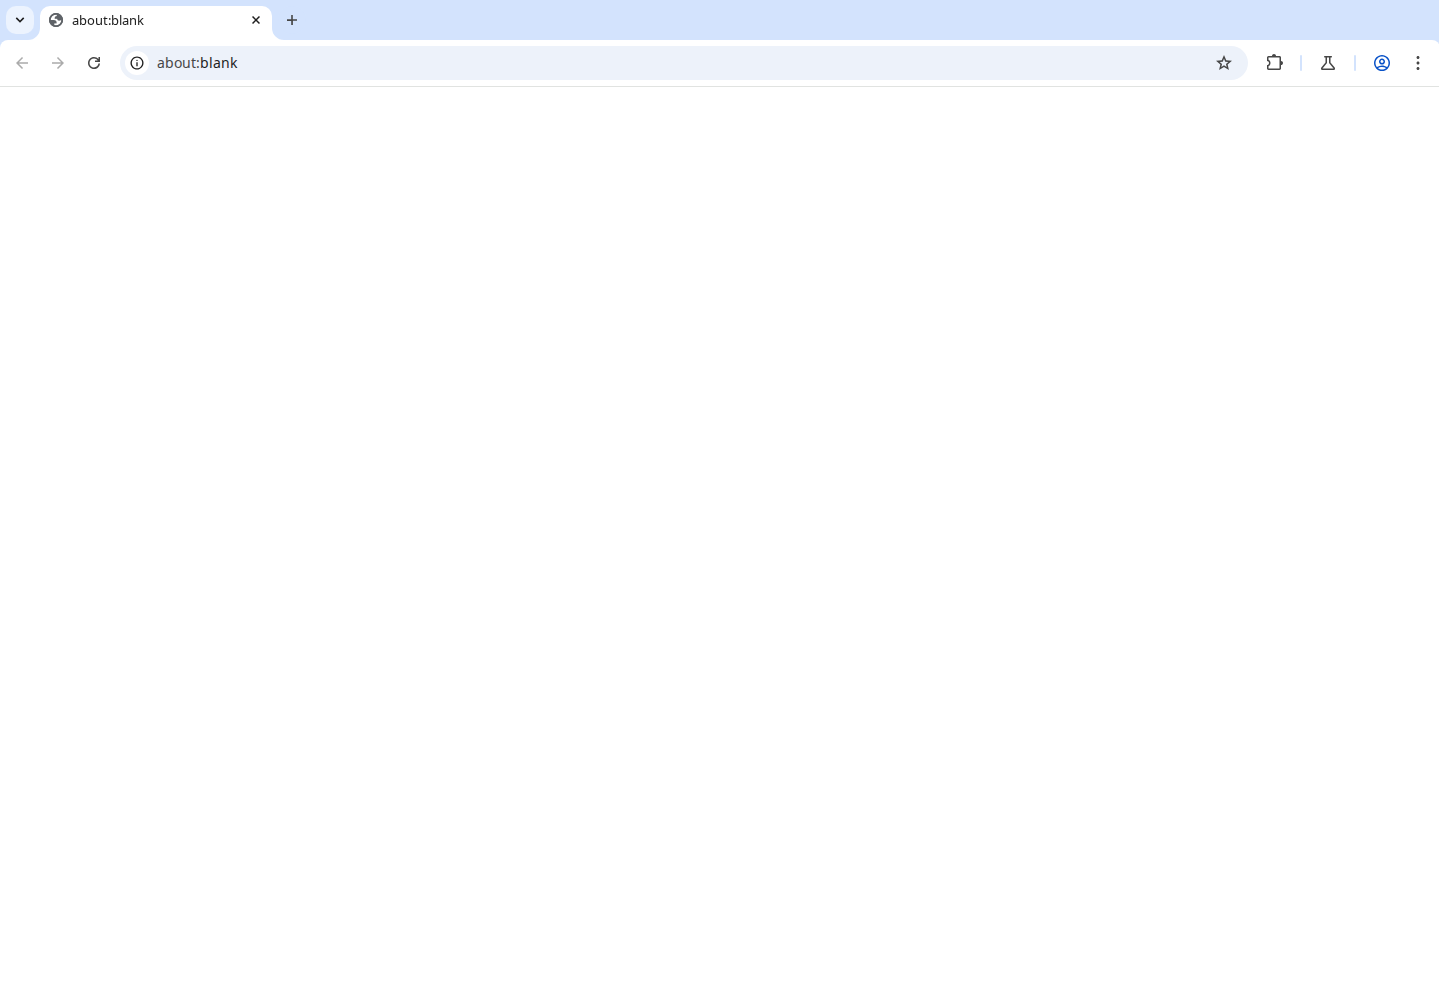
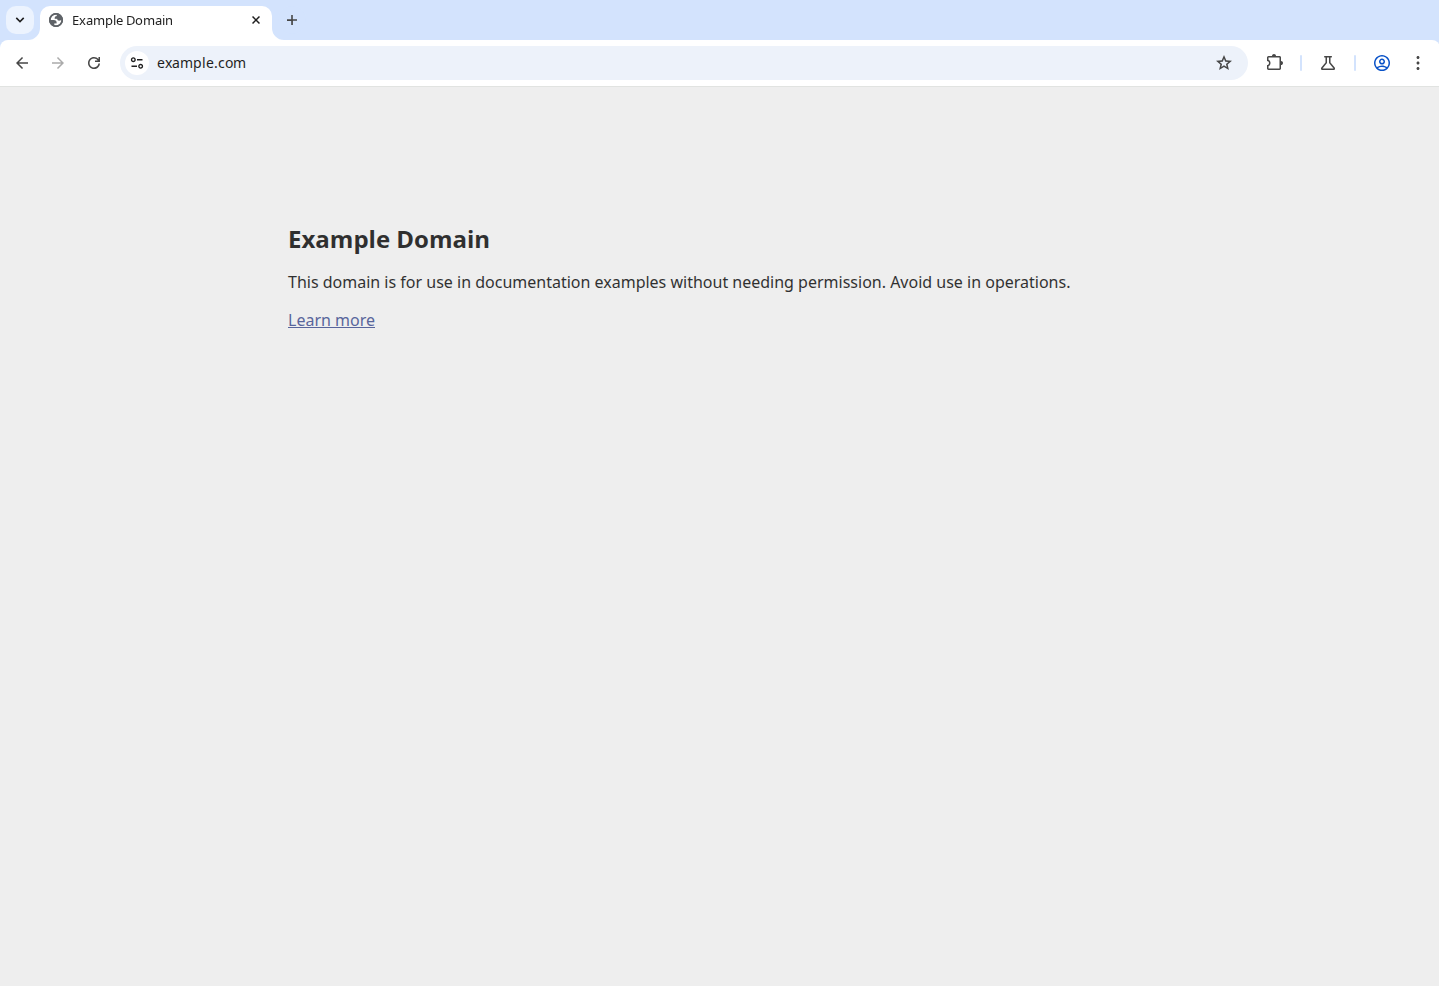
fix(anchor-browser): replace blank screenshot with live demo capture

Changed region(s): [[0.1835, 0.213, 0.7338, 0.3347], [0.0917, 0.0609, 0.1835, 0.0913], [0.0612, 0.0, 0.1223, 0.0304]]

diff --git a/packages/anchor_browser/README.md b/packages/anchor_browser/README.md
@@ -38,9 +38,18 @@ The plugin exposes **64 operations** covering these endpoint groups:
 
 ## Demo
 
-Verified end-to-end: a browser session is started and a screenshot is captured through the plugin's request client (`makeAnchorBrowserRequest` → `POST /sessions` then `GET /sessions/{id}/screenshot`):
+Verified end-to-end: a real browser session is started, navigated to `https://example.com`, and a screenshot is captured through the plugin's request client (`makeAnchorBrowserRequest` → `POST /sessions` → `POST /sessions/{id}/goto` → `GET /sessions/{id}/screenshot`). The screenshot below is captured live by `scripts/demo-live-screenshot.mjs` against the Anchor Browser API (not a placeholder):
 
 ![Anchor Browser session screenshot captured via the plugin](./scripts/demo-session-screenshot.png)
+
+To reproduce the capture locally:
+
+```sh
+export ANCHOR_BROWSER_API_KEY="your-key-here"
+pnpm --filter @corsair-dev/anchor_browser exec tsx scripts/demo-live-screenshot.mjs
+```
+
+The script prints the real JSON responses from `startBrowserSession` / `navigateToUrl` / `endBrowserSession` and writes a fresh `scripts/demo-session-screenshot.png`.
 - **downloads / uploads**: manage transfers
 - **events**: event streams and polling helpers
 - **extensions / integrations**: manage browser add-ons and external integrations
